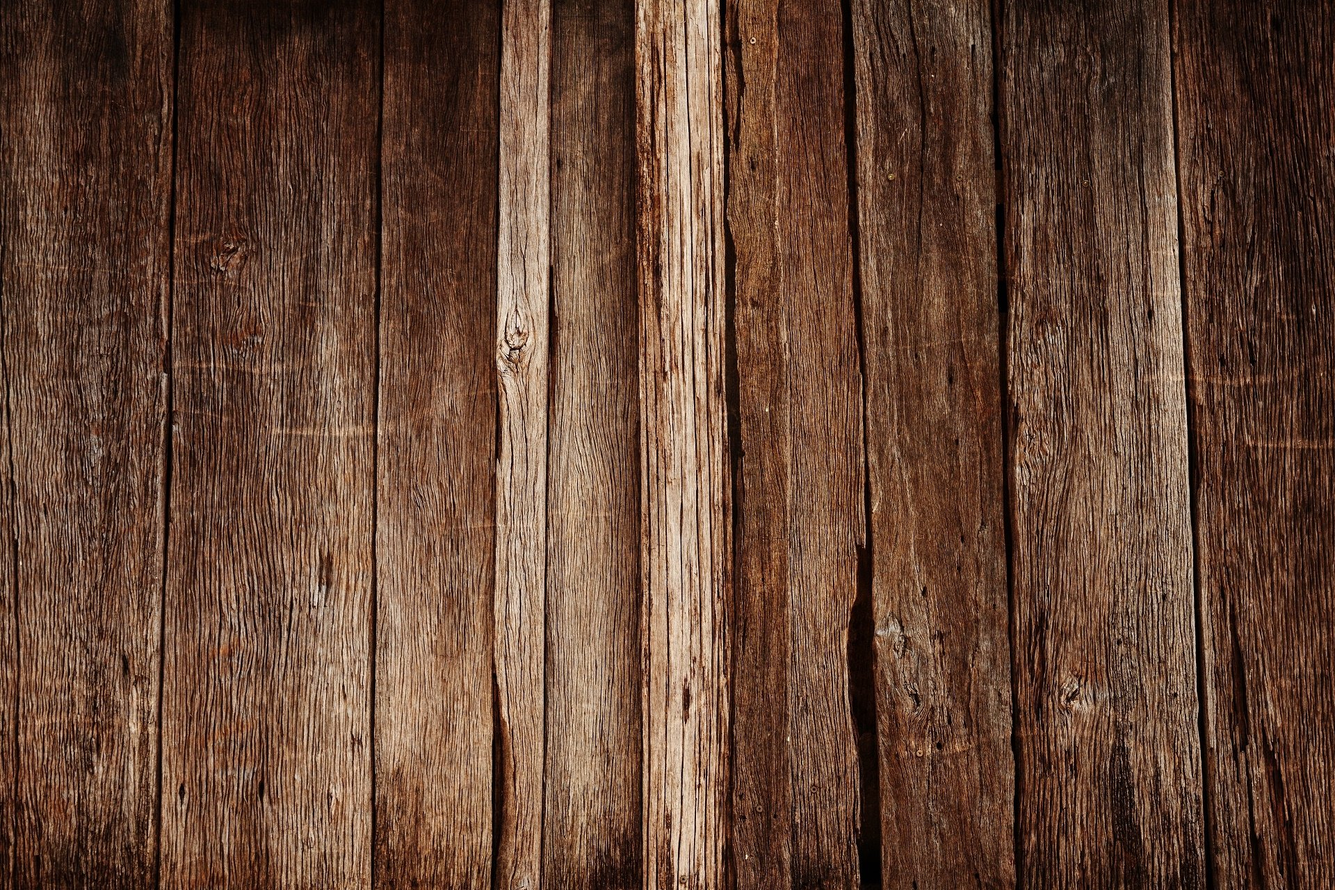
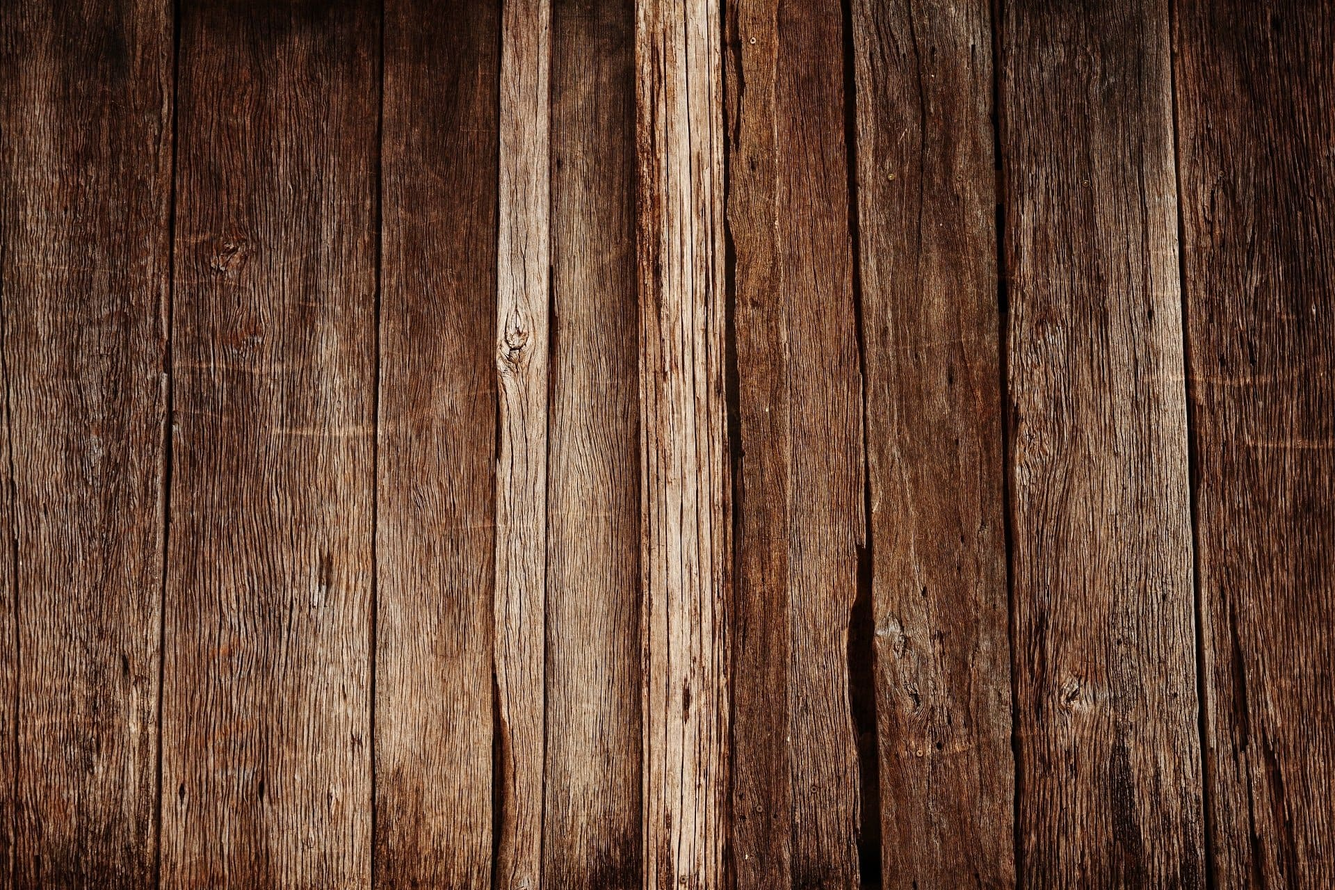
styling hero

Changed region(s): [[0.6562, 0.75, 0.6875, 0.8125], [0.375, 0.375, 0.4062, 0.4375], [0.6562, 0.6875, 0.6875, 0.7188]]

diff --git a/src/components/Hero1/Hero1.jsx b/src/components/Hero1/Hero1.jsx
@@ -13,7 +13,7 @@ const Hero1 = () =>{
             alt="First slide"
           />
           <Carousel.Caption className='HeroCaption '>
-            <h3>Productos Nobles para todos los Domingos</h3>
+            <h3>Revolucionamos el Asado Argentino</h3>
             <Button to='/productos' label="Ver Mas"></Button>
           </Carousel.Caption>
         </Carousel.Item> 
@@ -25,7 +25,7 @@ const Hero1 = () =>{
             alt="First slide"
           />
           <Carousel.Caption className='HeroCaption'>
-            <h3>Revolucionamos el Asado Argentino</h3>
+            <h3>Productos Nobles para todos los Domingos</h3>
             <Button to='/productos' label="Ver Mas"></Button>
           </Carousel.Caption>
         </Carousel.Item> 

diff --git a/src/components/Hero2/Hero2.jsx b/src/components/Hero2/Hero2.jsx
@@ -13,7 +13,7 @@ export default function Hero2() {
       transition={{duration: 1, ease: "easeInOut", delay: 0.5, type: "spring"}}
     
       >
-      <h1 className='title'>A la Tabla</h1>
+      <h1 className='title'>A La Tabla</h1>
       <h2 className='subtitle'>La mejor Calidad en Productos de Madera</h2>
       </motion.div>
       

diff --git a/src/components/Hero2/hero2.css b/src/components/Hero2/hero2.css
@@ -37,7 +37,7 @@
     top: 0;
     left: 0;
     z-index: 0,4;
-    filter: opacity(0.7)contrast(1)brightness(0.7)
+    filter: opacity(0.5)contrast(1)brightness(0.5)
 }
 
 

diff --git a/src/components/ProductsContainer/productsContainer.css b/src/components/ProductsContainer/productsContainer.css
@@ -12,7 +12,7 @@
     border-bottom: 1px solid azure;
     font-variant: small-caps;
     font-size: 1.5em;
-    margin-top: .5em;
+    margin-top: 1em;
 
 }
 .ProductList{
